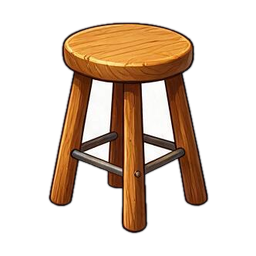
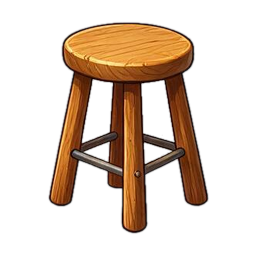
v32 — lo sgabello del saloon non ha piu' la toppa bianca tra le gambe
Il vuoto tra le gambe e' sigillato da seduta e traversa, quindi il riempimento
dai bordi (che serve a non bucare i soggetti bianchi) non ci arrivava.
split_props.py ora sa svuotare le sacche di sfondo chiuse dentro la sagoma,
ma solo per gli arredi elencati in PUNCH: farlo in automatico bucherebbe il
pupazzo di neve, il cumulo di neve e i metalli chiari del carrello.

diff --git a/index.html b/index.html
@@ -8,13 +8,13 @@
 <title>SUSoku</title>
 <link rel="icon" type="image/png" href="assets/brand/favicon.png">
 <link rel="apple-touch-icon" href="assets/brand/icon-180.png">
-<link rel="stylesheet" href="style.css?v=31">
+<link rel="stylesheet" href="style.css?v=32">
 </head>
 <body>
 <div id="app"></div>
-<script src="firebase-config.js?v=31"></script>
-<script src="profile.js?v=31"></script>
-<script src="assets.js?v=31"></script>
-<script src="app.js?v=31"></script>
+<script src="firebase-config.js?v=32"></script>
+<script src="profile.js?v=32"></script>
+<script src="assets.js?v=32"></script>
+<script src="app.js?v=32"></script>
 </body>
 </html>

diff --git a/app.js b/app.js
@@ -142,7 +142,7 @@ Profile.onChange = () => {
   else if (S.view === "levels") renderLevels(S.zone);
 };
 
-const BUILD = "31";
+const BUILD = "32";
 
 async function boot() {
   S.index = await (await fetch("levels/index.json?v=" + BUILD)).json();
